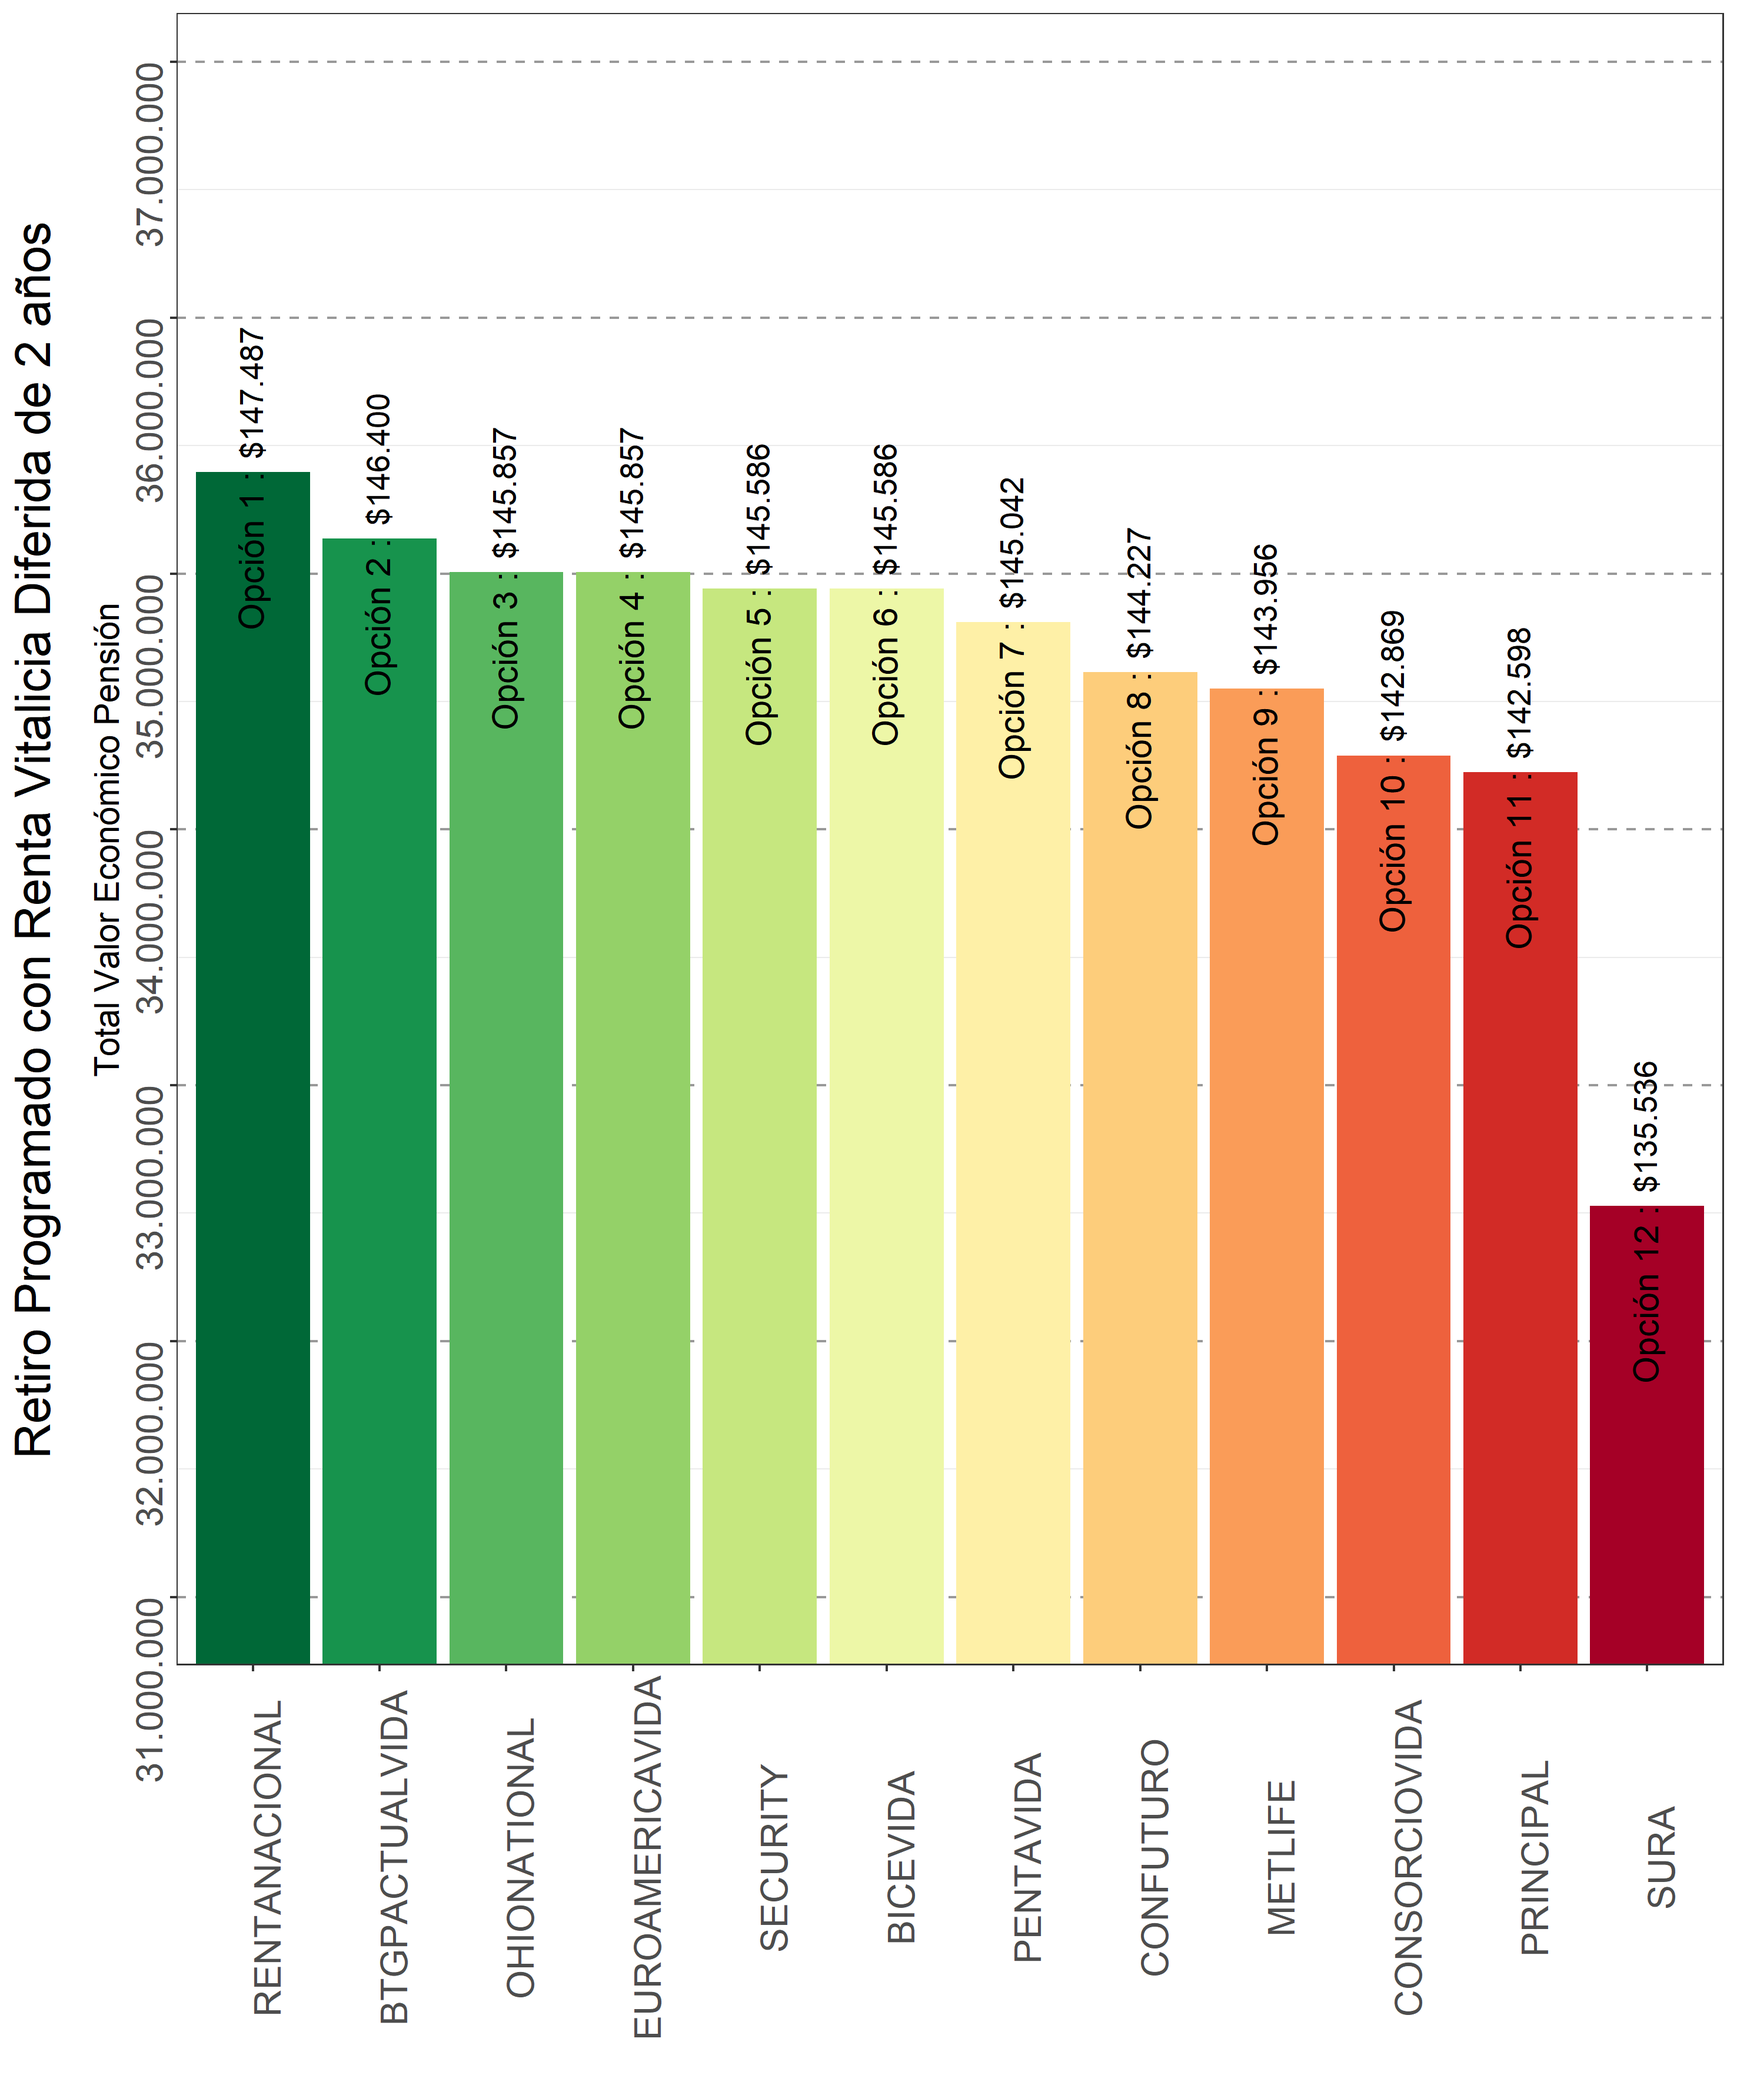
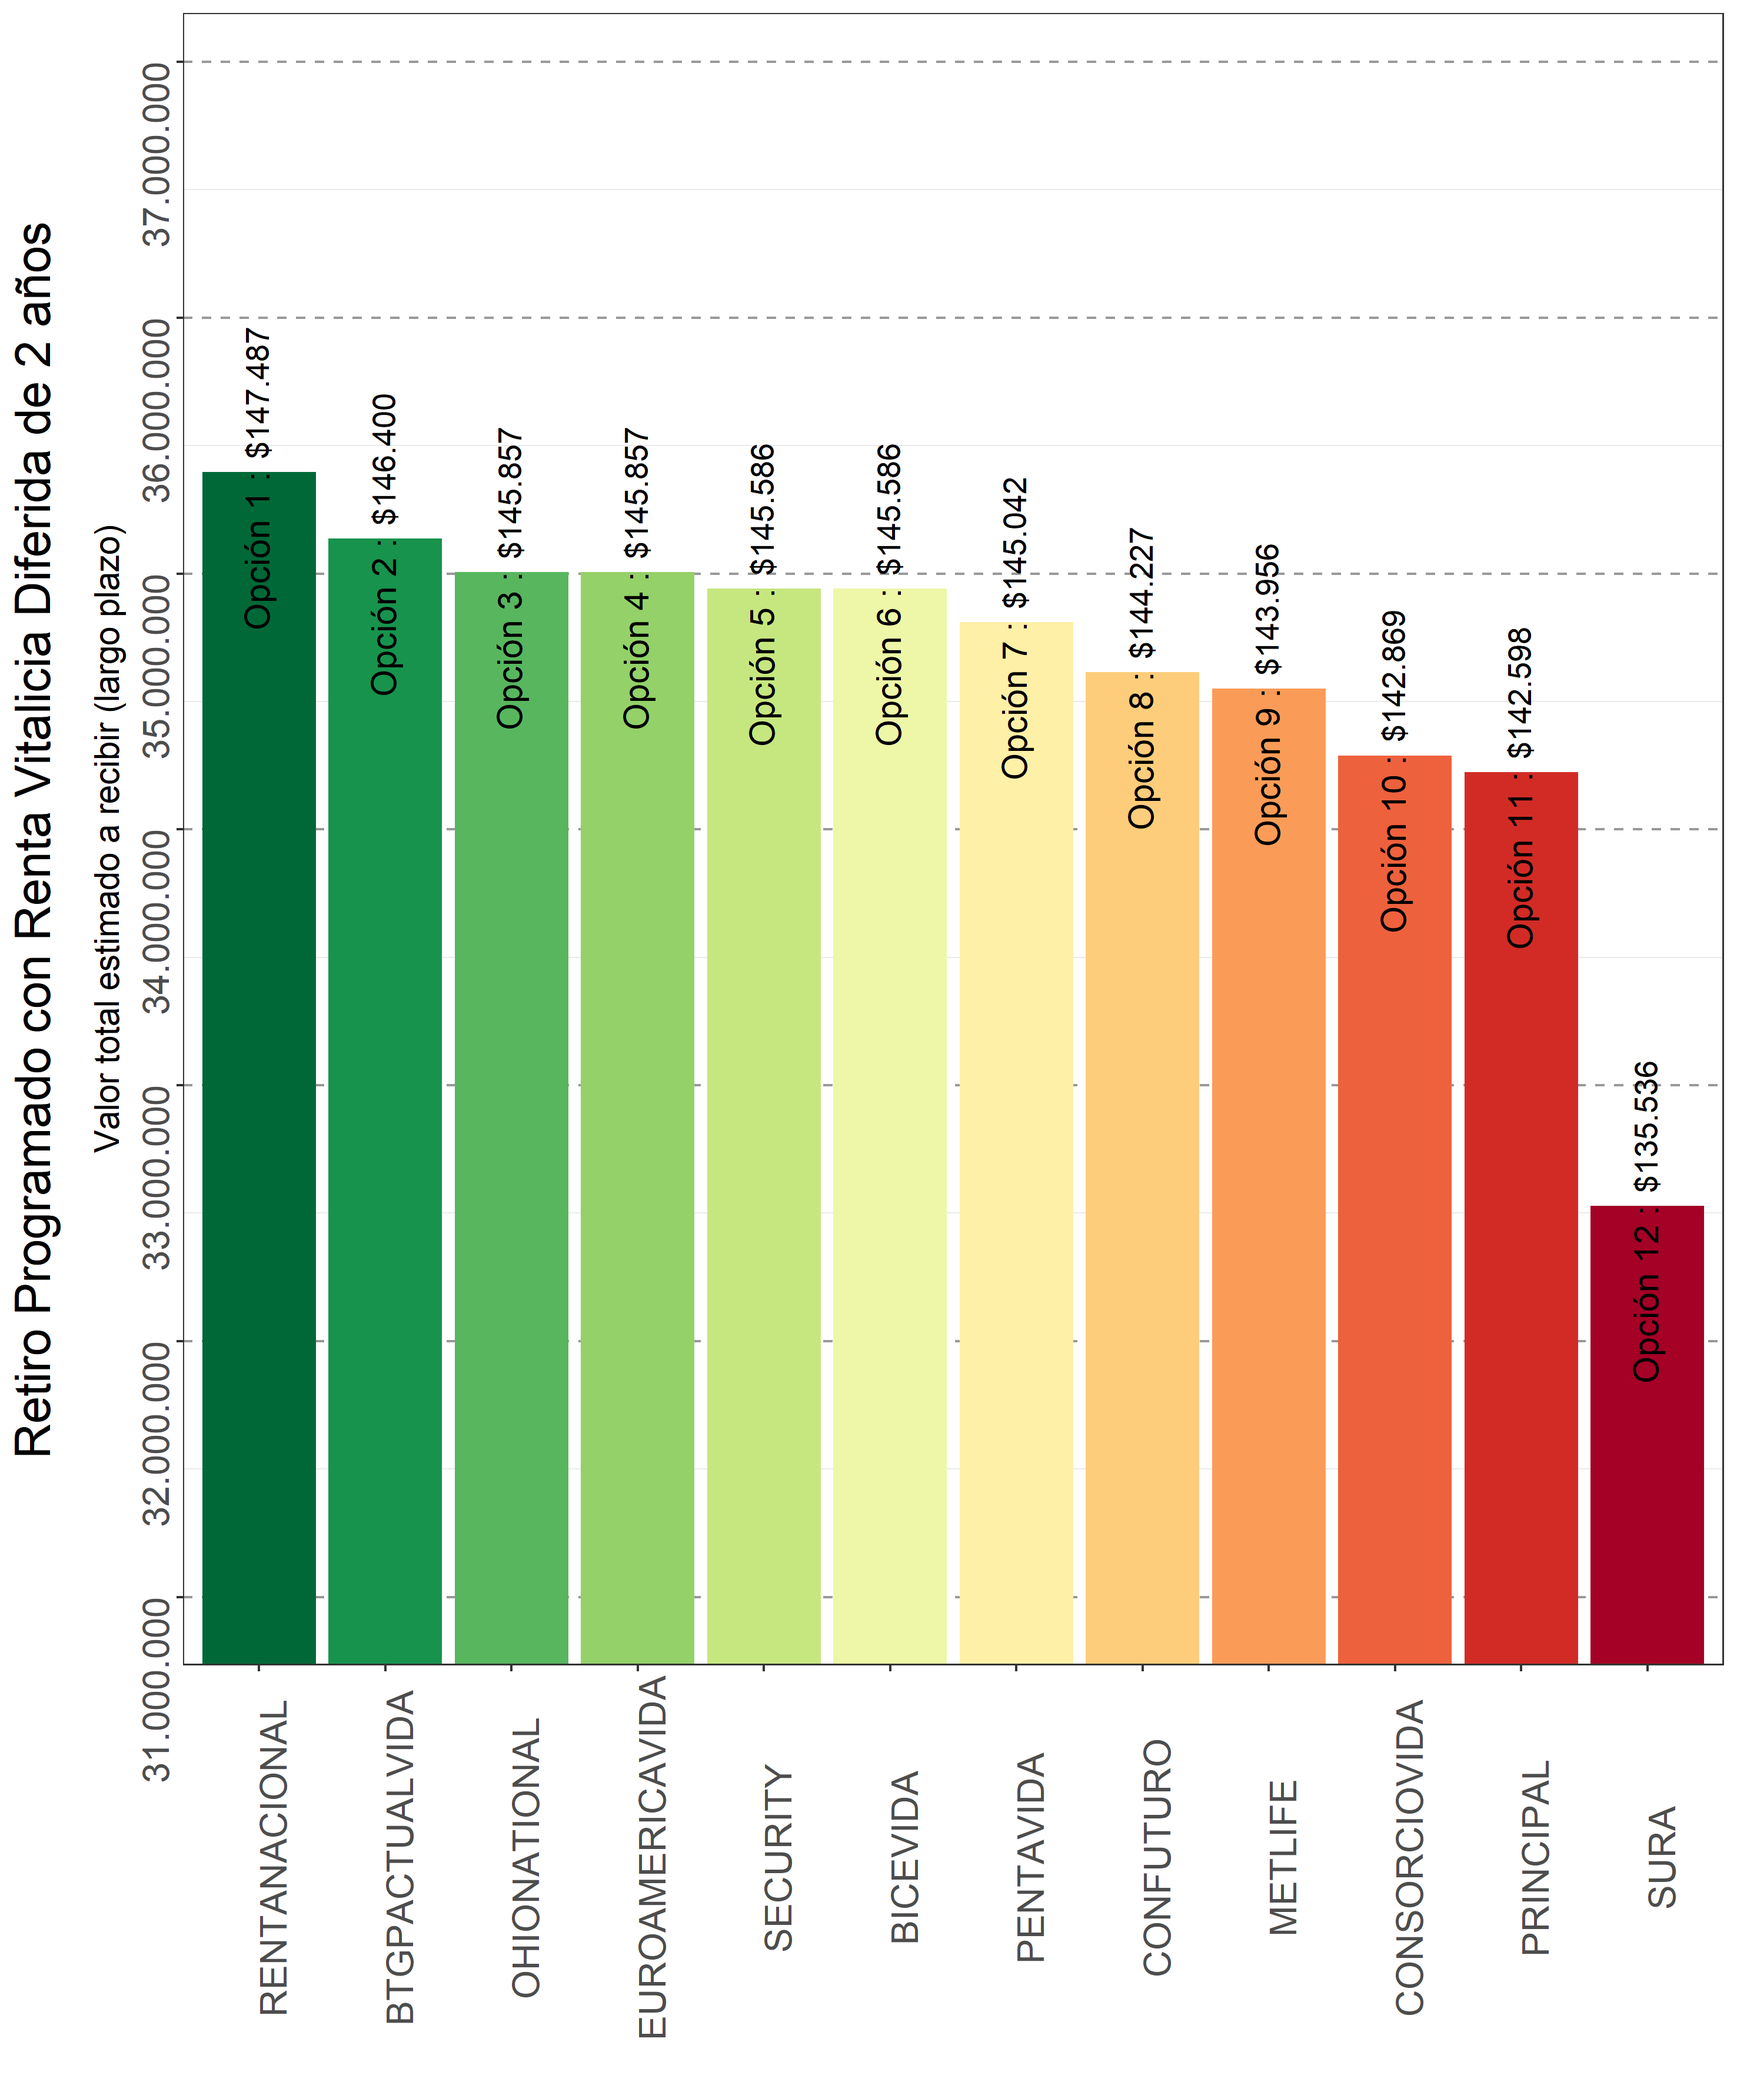
Update treatment functions
Corrections and modifications requiered by SP

diff --git a/Tratamientos/TreatV1qualtricsID.html b/Tratamientos/TreatV1qualtricsID.html
@@ -6,15 +6,14 @@
 <div style="margin: 0 auto; display: table; margin-top: 1em;">
 <table class='gmisc_table' style='border-collapse: collapse; margin-top: 1em; margin-bottom: 1em;' >
 <thead>
-<tr><td colspan='4' style='text-align: left;'>
+<tr><td colspan='5' style='text-align: left;'>
 Retiro Programado con Renta Vitalicia Diferida de 2 a&ntilde;os</td></tr>
 <tr>
 <th style='border-bottom: 1px solid grey; border-top: 2px solid grey; text-align: center;'>Opci&oacuten</th>
 <th style='border-bottom: 1px solid grey; border-top: 2px solid grey; text-align: center;'>Raz&oacuten Social</th>
-<th style='border-bottom: 1px solid grey; border-top: 2px solid grey; text-align: center;'>Pensi&oacuten mensual en pesos 
-                                 <br> sin retiro de excedentes&dagger;</th>
-<th style='border-bottom: 1px solid grey; border-top: 2px solid grey; text-align: center;'>&nbsp; Clasificaci&oacuten de Riesgo <br>
-                                 de la Compa&ntilde;&iacutea de Seguros&lowast;</th>
+<th style='border-bottom: 1px solid grey; border-top: 2px solid grey; text-align: center;'>Pensi&oacuten mensual en pesos&dagger;</th>
+<th style='border-bottom: 1px solid grey; border-top: 2px solid grey; text-align: center;'>Valor total estimado a recibir <br>(largo plazo)&lowast;</th>
+<th style='border-bottom: 1px solid grey; border-top: 2px solid grey; text-align: center;'>P&eacuterdida total <br> estimada&lowast;&lowast;</th>
 </tr>
 </thead>
 <tbody>
@@ -22,81 +21,92 @@ Retiro Programado con Renta Vitalicia Diferida de 2 a&ntilde;os</td></tr>
 <td style='text-align: center;'>1</td>
 <td style='text-align: center;'>RENTANACIONAL</td>
 <td style='text-align: center;'>147.487</td>
-<td style='text-align: center;'>BBB+</td>
+<td style='text-align: center;'>35.396.841</td>
+<td style='text-align: center;'>0</td>
 </tr>
 <tr>
 <td style='text-align: center;'>2</td>
 <td style='text-align: center;'>BTGPACTUALVIDA</td>
 <td style='text-align: center;'>146.400</td>
-<td style='text-align: center;'>A</td>
+<td style='text-align: center;'>35.136.091</td>
+<td style='text-align: center;'>-260.750</td>
 </tr>
 <tr>
 <td style='text-align: center;'>3</td>
 <td style='text-align: center;'>OHIONATIONAL</td>
 <td style='text-align: center;'>145.857</td>
-<td style='text-align: center;'>AA</td>
+<td style='text-align: center;'>35.005.715</td>
+<td style='text-align: center;'>-391.125</td>
 </tr>
 <tr>
 <td style='text-align: center;'>4</td>
 <td style='text-align: center;'>EUROAMERICAVIDA</td>
 <td style='text-align: center;'>145.857</td>
-<td style='text-align: center;'>AA-</td>
+<td style='text-align: center;'>35.005.715</td>
+<td style='text-align: center;'>-391.125</td>
 </tr>
 <tr>
 <td style='text-align: center;'>5</td>
 <td style='text-align: center;'>SECURITY</td>
 <td style='text-align: center;'>145.586</td>
-<td style='text-align: center;'>AA-</td>
+<td style='text-align: center;'>34.940.528</td>
+<td style='text-align: center;'>-456.313</td>
 </tr>
 <tr>
 <td style='text-align: center;'>6</td>
 <td style='text-align: center;'>BICEVIDA</td>
 <td style='text-align: center;'>145.586</td>
-<td style='text-align: center;'>AA+</td>
+<td style='text-align: center;'>34.940.528</td>
+<td style='text-align: center;'>-456.313</td>
 </tr>
 <tr>
 <td style='text-align: center;'>7</td>
 <td style='text-align: center;'>PENTAVIDA</td>
 <td style='text-align: center;'>145.042</td>
-<td style='text-align: center;'>AA</td>
+<td style='text-align: center;'>34.810.153</td>
+<td style='text-align: center;'>-586.688</td>
 </tr>
 <tr>
 <td style='text-align: center;'>8</td>
 <td style='text-align: center;'>CONFUTURO</td>
 <td style='text-align: center;'>144.227</td>
-<td style='text-align: center;'>AA</td>
+<td style='text-align: center;'>34.614.590</td>
+<td style='text-align: center;'>-782.251</td>
 </tr>
 <tr>
 <td style='text-align: center;'>9</td>
 <td style='text-align: center;'>METLIFE</td>
 <td style='text-align: center;'>143.956</td>
-<td style='text-align: center;'>AA+</td>
+<td style='text-align: center;'>34.549.403</td>
+<td style='text-align: center;'>-847.438</td>
 </tr>
 <tr>
 <td style='text-align: center;'>10</td>
 <td style='text-align: center;'>CONSORCIOVIDA</td>
 <td style='text-align: center;'>142.869</td>
-<td style='text-align: center;'>AA+</td>
+<td style='text-align: center;'>34.288.652</td>
+<td style='text-align: center;'>-1.108.188</td>
 </tr>
 <tr>
 <td style='text-align: center;'>11</td>
 <td style='text-align: center;'>PRINCIPAL</td>
 <td style='text-align: center;'>142.598</td>
-<td style='text-align: center;'>AA+</td>
+<td style='text-align: center;'>34.223.465</td>
+<td style='text-align: center;'>-1.173.376</td>
 </tr>
 <tr>
 <td style='border-bottom: 2px solid grey; text-align: center;'>12</td>
 <td style='border-bottom: 2px solid grey; text-align: center;'>SURA</td>
 <td style='border-bottom: 2px solid grey; text-align: center;'>135.536</td>
-<td style='border-bottom: 2px solid grey; text-align: center;'>AA</td>
+<td style='border-bottom: 2px solid grey; text-align: center;'>32.528.588</td>
+<td style='border-bottom: 2px solid grey; text-align: center;'>-2.868.252</td>
 </tr>
 </tbody>
-<tfoot><tr><td colspan='4'>
-&dagger; Valor de UF en pesos al d&iacutea 03/08/2018;<br>
-                     &lowast; Las categor&iacuteas de Clasificaci&oacuten de Riesgo que permiten a las Compa&ntilde;&iacutea ofrecer<br>
-                     Rentas Vitalicias, ordenadas de mejor a inferior clasificaci&oacuten, son las siguientes AAA <br>
-                     (mejor clasificaci&oacuten), AA, A, BBB (inferior). Cada una de estas categor&iacuteas puede tener <br>
-                     sub&iacutendices &quot;+&quot; o &quot;-&quot;, siendo el sub&iacutendice &quot;+&quot; mejor que el &quot;-&quot;.</td></tr></tfoot>
+<tfoot><tr><td colspan='5'>
+&dagger; Valor calculado en base a UF del d&iacutea 03/08/2018.<br>
+                    &lowast; Estimaci&oacuten del valor total de la oferta de pensi&oacuten, considerando esperanza de vida,<br>
+                     riesgo de quiebra de la compa&ntilde;&iacutea de seguros y la tasa de descuento de los per&iacuteodos garantizados, si corresponde.<br>
+                   &lowast;&lowast; Estimaci&oacuten del dinero que dejar&iacutea de percibir de no elegir la opci&oacuten 1.</td></tr></tfoot>
 </table>
 </div>
 </body>

diff --git a/Tratamientos/TreatV2qualtricsID.html b/Tratamientos/TreatV2qualtricsID.html
@@ -6,56 +6,38 @@
 <div style="margin: 0 auto; display: table; margin-top: 1em;">
 <table class='gmisc_table' style='border-collapse: collapse; margin-top: 1em; margin-bottom: 1em;' >
 <thead>
-<tr><td colspan='4' style='text-align: left;'>
+<tr><td colspan='6' style='text-align: left;'>
 Retiro Programado</td></tr>
 <tr>
-<th style='border-bottom: 1px solid grey; border-top: 2px solid grey; text-align: center;'>Opci&oacuten</th>
-<th style='border-bottom: 1px solid grey; border-top: 2px solid grey; text-align: center;'>Raz&oacuten Social</th>
-<th style='border-bottom: 1px solid grey; border-top: 2px solid grey; text-align: center;'>Monto de pension mensual<br> durante el primer a&ntildeo&dagger;</th>
-<th style='border-bottom: 1px solid grey; border-top: 2px solid grey; text-align: center;'>&emsp; P&eacuterdida anual estimada&dagger;</th>
+<th colspan='6' style='font-weight: 900; border-bottom: 1px solid grey; border-top: 2px solid grey; text-align: center;'>Monto de pensi&oacute;n mensual durante el primer a&ntildeo</th>
+</tr>
+<tr>
+<th style='border-bottom: 1px solid grey; text-align: center;'>Opci&oacuten 1</th>
+<th style='border-bottom: 1px solid grey; text-align: center;'>Opci&oacuten 2</th>
+<th style='border-bottom: 1px solid grey; text-align: center;'>Opci&oacuten 3</th>
+<th style='border-bottom: 1px solid grey; text-align: center;'>Opci&oacuten 4</th>
+<th style='border-bottom: 1px solid grey; text-align: center;'>Opci&oacuten 5</th>
+<th style='border-bottom: 1px solid grey; text-align: center;'>Opci&oacuten 6</th>
 </tr>
 </thead>
 <tbody>
 <tr>
-<td style='text-align: center;'>1</td>
-<td style='text-align: center;'>AFP HABITAT</td>
-<td style='text-align: center;'>167.586</td>
-<td style='text-align: center;'>40.220.720</td>
+<td style='padding-left: 0.5em; padding-right: 0.5em; text-align: center;'>AFP HABITAT</td>
+<td style='padding-left: 0.5em; padding-right: 0.5em; text-align: center;'>AFP MODELO</td>
+<td style='padding-left: 0.5em; padding-right: 0.5em; text-align: center;'>AFP PROVIDA</td>
+<td style='padding-left: 0.5em; padding-right: 0.5em; text-align: center;'>AFP CUPRUM</td>
+<td style='padding-left: 0.5em; padding-right: 0.5em; text-align: center;'>AFP CAPITAL</td>
+<td style='padding-left: 0.5em; padding-right: 0.5em; text-align: center;'>AFP PLANVITAL</td>
 </tr>
 <tr>
-<td style='text-align: center;'>2</td>
-<td style='text-align: center;'>AFP MODELO</td>
-<td style='text-align: center;'>167.315</td>
-<td style='text-align: center;'>40.155.532</td>
-</tr>
-<tr>
-<td style='text-align: center;'>3</td>
-<td style='text-align: center;'>AFP PROVIDA</td>
-<td style='text-align: center;'>167.043</td>
-<td style='text-align: center;'>40.090.344</td>
-</tr>
-<tr>
-<td style='text-align: center;'>4</td>
-<td style='text-align: center;'>AFP CUPRUM</td>
-<td style='text-align: center;'>167.043</td>
-<td style='text-align: center;'>40.090.344</td>
-</tr>
-<tr>
-<td style='text-align: center;'>5</td>
-<td style='text-align: center;'>AFP CAPITAL</td>
-<td style='text-align: center;'>167.043</td>
-<td style='text-align: center;'>40.090.344</td>
-</tr>
-<tr>
-<td style='border-bottom: 2px solid grey; text-align: center;'>6</td>
-<td style='border-bottom: 2px solid grey; text-align: center;'>AFP PLANVITAL</td>
-<td style='border-bottom: 2px solid grey; text-align: center;'>167.043</td>
-<td style='border-bottom: 2px solid grey; text-align: center;'>40.090.344</td>
+<td style='padding-left: 0.5em; padding-right: 0.5em; border-bottom: 2px solid grey; text-align: center;'>6,17 UF</td>
+<td style='padding-left: 0.5em; padding-right: 0.5em; border-bottom: 2px solid grey; text-align: center;'>6,16 UF</td>
+<td style='padding-left: 0.5em; padding-right: 0.5em; border-bottom: 2px solid grey; text-align: center;'>6,15 UF</td>
+<td style='padding-left: 0.5em; padding-right: 0.5em; border-bottom: 2px solid grey; text-align: center;'>6,15 UF</td>
+<td style='padding-left: 0.5em; padding-right: 0.5em; border-bottom: 2px solid grey; text-align: center;'>6,15 UF</td>
+<td style='padding-left: 0.5em; padding-right: 0.5em; border-bottom: 2px solid grey; text-align: center;'>6,15 UF</td>
 </tr>
 </tbody>
-<tfoot><tr><td colspan='4'>
-&dagger; Valor de UF en pesos al d&iacutea 03/08/2018;<br>
-                     &lowast; Monto que dejar&iacutea de ganar cada a&ntilde;o de vida</td></tr></tfoot>
 </table>
 </div>
 </body>
